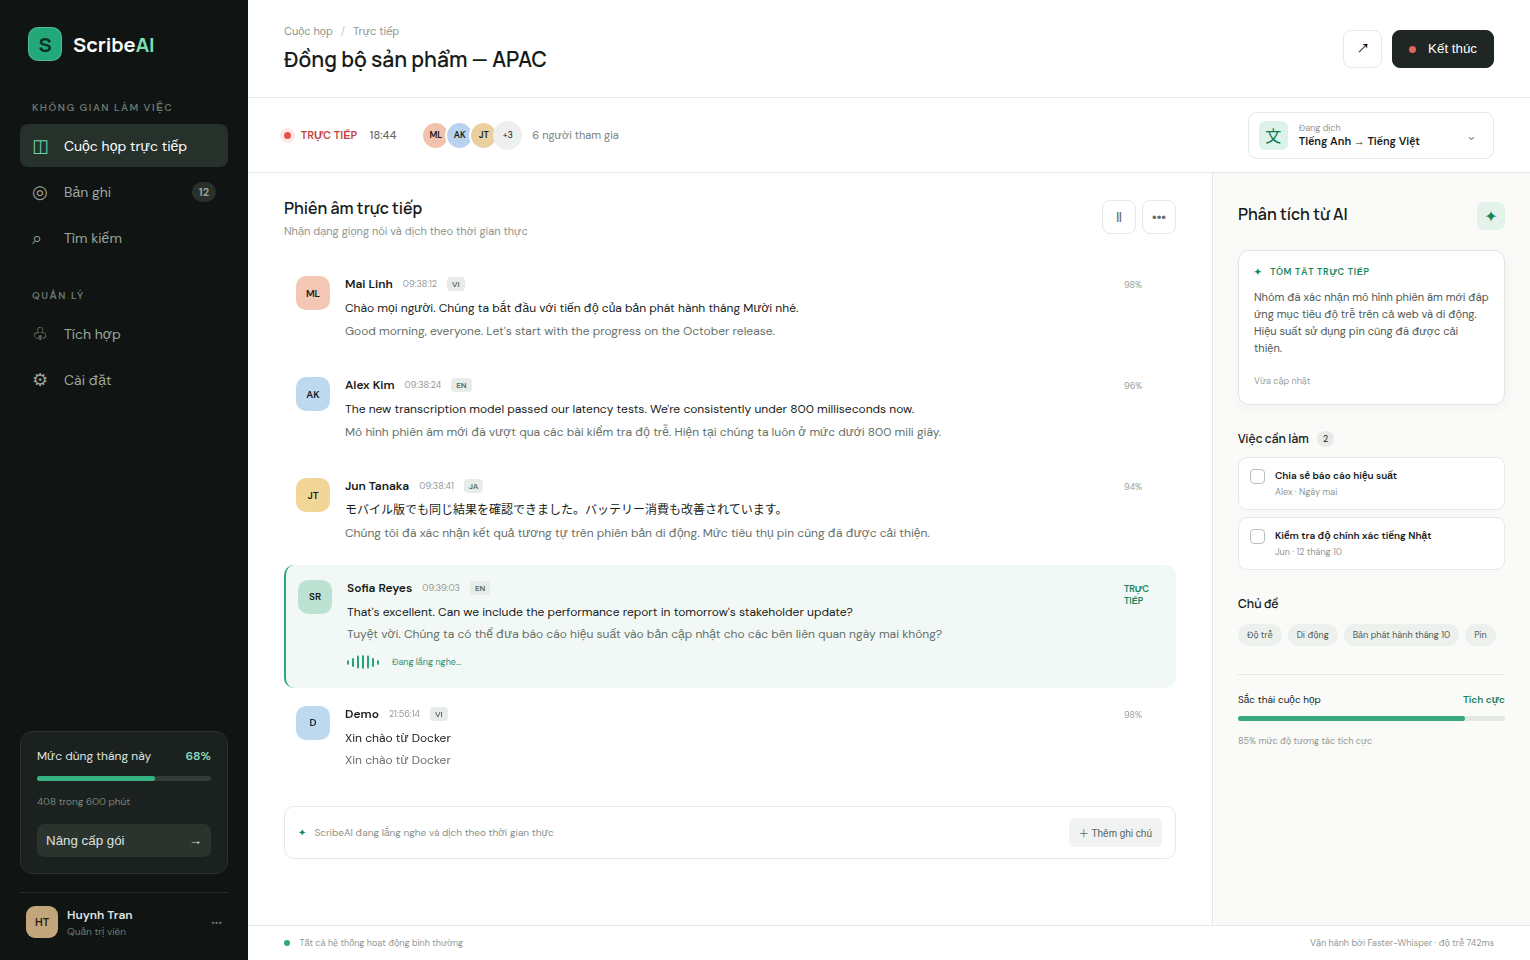
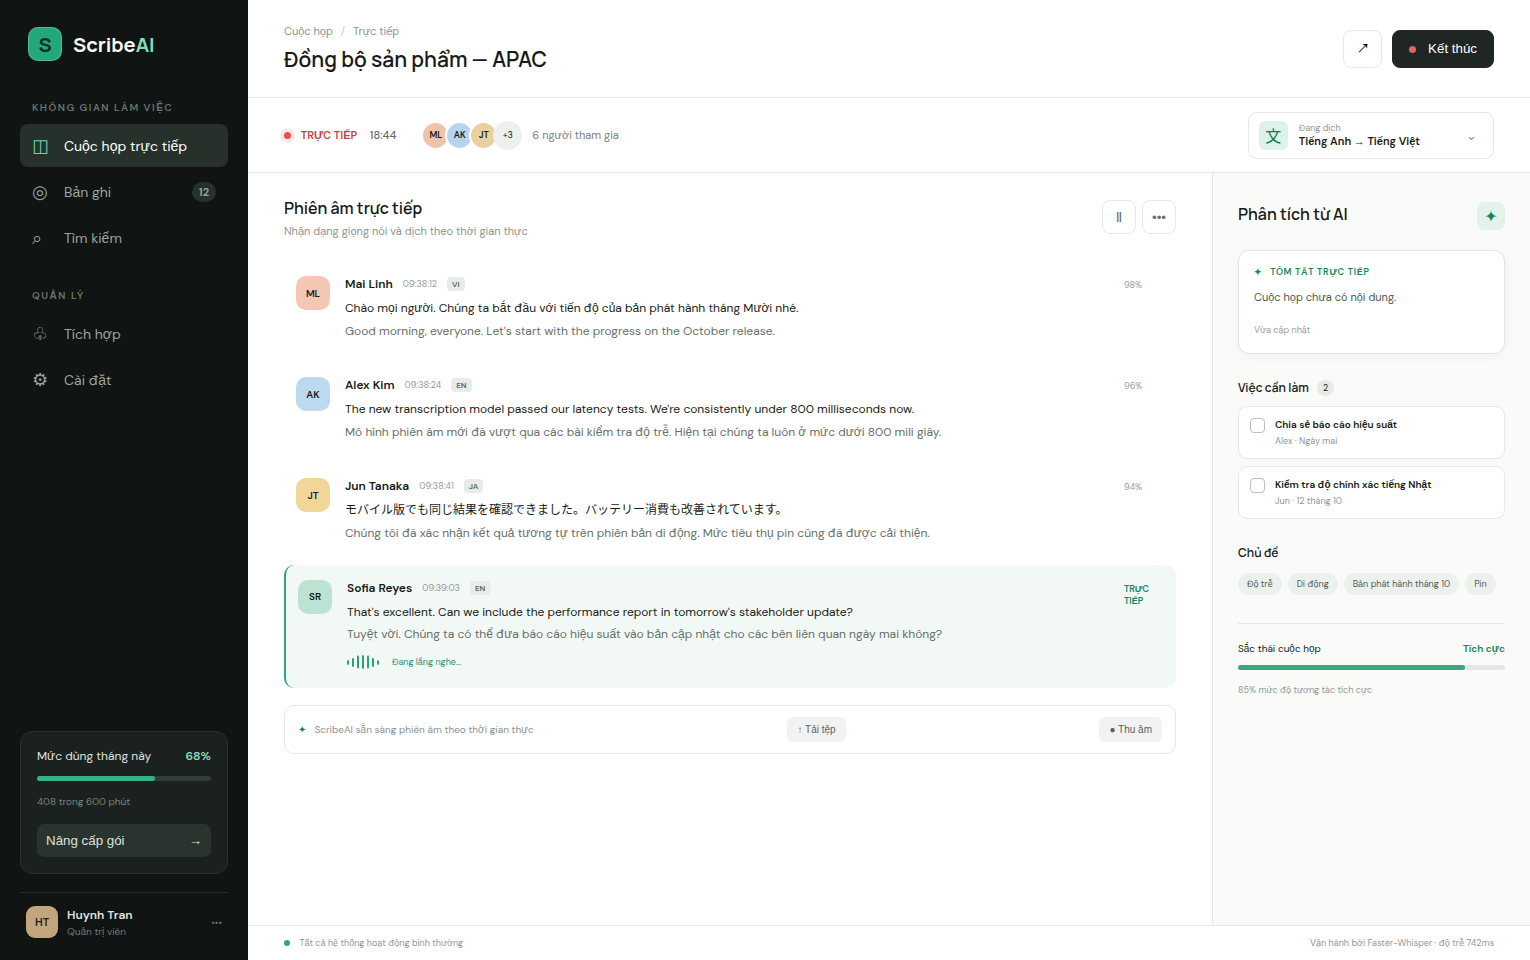
feat: make transcription pipeline one-command ready

diff --git a/web/assets/app.js b/web/assets/app.js
@@ -6,6 +6,8 @@ let seconds = 18 * 60 + 42;
 let running = true;
 let meetingId = null;
 let socket = null;
+let mediaRecorder = null;
+let mediaStream = null;
 
 function notify(message) {
   toast.textContent = message;
@@ -30,6 +32,28 @@ function addSegment(segment) {
     <span class="confidence">${Math.round(segment.confidence * 100)}%</span>`;
   timeline.appendChild(article);
   timeline.scrollTop = timeline.scrollHeight;
+  setTimeout(refreshInsights, 500);
+}
+
+async function uploadAudio(blob, filename = `audio-${Date.now()}.webm`) {
+  if (!meetingId) throw new Error('Chưa có cuộc họp đang chạy');
+  const form = new FormData();
+  form.append('speaker', 'Người dùng');
+  form.append('file', blob, filename);
+  const response = await fetch(`/api/meetings/${meetingId}/audio`, { method: 'POST', body: form });
+  if (!response.ok) throw new Error(await response.text());
+  return response.json();
+}
+
+async function refreshInsights() {
+  if (!meetingId) return;
+  try {
+    const response = await fetch(`/api/meetings/${meetingId}/insights`);
+    if (!response.ok) return;
+    const data = await response.json();
+    document.querySelector('#ai-summary').textContent = data.summary;
+    if (data.topics.length) document.querySelector('#ai-topics').innerHTML = data.topics.map(topic => `<span>${escapeHtml(topic)}</span>`).join('');
+  } catch (error) { console.error(error); }
 }
 
 async function initializeRealtime() {
@@ -54,6 +78,7 @@ async function initializeRealtime() {
       if (message.type === 'status' && message.data.status === 'ended') notify('Cuộc họp đã kết thúc');
     };
     socket.onclose = () => setTimeout(initializeRealtime, 3000);
+    await refreshInsights();
   } catch (error) {
     console.error(error);
     notify('Không thể kết nối máy chủ realtime');
@@ -85,6 +110,46 @@ document.querySelector('#end-meeting').addEventListener('click', async () => {
     document.querySelector('#end-meeting').disabled = true;
     notify('Đã kết thúc cuộc họp');
   }
+});
+
+document.querySelector('#upload-audio').addEventListener('click', () => document.querySelector('#audio-file').click());
+document.querySelector('#audio-file').addEventListener('change', async event => {
+  const file = event.target.files[0];
+  if (!file) return;
+  const button = document.querySelector('#upload-audio');
+  button.disabled = true;
+  try {
+    await uploadAudio(file, file.name);
+    notify('Đã xếp hàng tệp âm thanh để phiên âm');
+  } catch (error) { notify(`Lỗi tải tệp: ${error.message}`); }
+  finally { button.disabled = false; event.target.value = ''; }
+});
+
+document.querySelector('#record-audio').addEventListener('click', async event => {
+  const button = event.currentTarget;
+  if (mediaRecorder?.state === 'recording') {
+    mediaRecorder.stop();
+    mediaStream.getTracks().forEach(track => track.stop());
+    button.classList.remove('recording');
+    button.textContent = '● Thu âm';
+    document.querySelector('#record-status').textContent = 'Đang xử lý đoạn âm thanh cuối…';
+    return;
+  }
+  try {
+    mediaStream = await navigator.mediaDevices.getUserMedia({ audio: { echoCancellation: true, noiseSuppression: true } });
+    mediaRecorder = new MediaRecorder(mediaStream, { mimeType: 'audio/webm;codecs=opus' });
+    mediaRecorder.addEventListener('dataavailable', async ({ data }) => {
+      if (!data.size) return;
+      try { await uploadAudio(data); notify('Đã gửi một đoạn âm thanh để phiên âm'); }
+      catch (error) { notify(`Lỗi gửi âm thanh: ${error.message}`); }
+    });
+    mediaRecorder.addEventListener('stop', () => { document.querySelector('#record-status').textContent = 'ScribeAI sẵn sàng phiên âm theo thời gian thực'; });
+    mediaRecorder.start(10000);
+    button.classList.add('recording');
+    button.textContent = '■ Dừng thu';
+    document.querySelector('#record-status').textContent = 'Đang thu và gửi âm thanh mỗi 10 giây…';
+    notify('Đã bắt đầu thu âm');
+  } catch (error) { notify('Không thể truy cập micro. Hãy cấp quyền cho trình duyệt.'); }
 });
 
 document.querySelectorAll('.task').forEach(task => task.addEventListener('change', () => {

diff --git a/web/index.html b/web/index.html
@@ -62,17 +62,17 @@
               <span class="speaker-avatar green">SR</span><div class="utterance"><div class="speaker"><strong>Sofia Reyes</strong><time>09:39:03</time><em>EN</em></div><p>That's excellent. Can we include the performance report in tomorrow's stakeholder update?</p><p class="translated">Tuyệt vời. Chúng ta có thể đưa báo cáo hiệu suất vào bản cập nhật cho các bên liên quan ngày mai không?</p><div class="wave"><i></i><i></i><i></i><i></i><i></i><i></i><i></i><i></i><span>Đang lắng nghe…</span></div></div><span class="confidence live-c">TRỰC TIẾP</span>
             </article>
           </div>
-          <div class="composer"><span class="pulse">✦</span><span>ScribeAI đang lắng nghe và dịch theo thời gian thực</span><button title="Thêm ghi chú">＋ Thêm ghi chú</button></div>
+          <div class="composer"><span class="pulse">✦</span><span id="record-status">ScribeAI sẵn sàng phiên âm theo thời gian thực</span><input id="audio-file" type="file" accept="audio/*,video/webm" hidden><button id="upload-audio" title="Tải tệp âm thanh">↑ Tải tệp</button><button id="record-audio" title="Thu âm từ micro">● Thu âm</button></div>
         </div>
 
         <aside class="insights">
           <div class="insight-head"><h2>Phân tích từ AI</h2><span class="spark">✦</span></div>
-          <div class="summary"><div class="card-label"><span>✦</span> TÓM TẮT TRỰC TIẾP</div><p>Nhóm đã xác nhận mô hình phiên âm mới đáp ứng mục tiêu độ trễ trên cả web và di động. Hiệu suất sử dụng pin cũng đã được cải thiện.</p><small>Vừa cập nhật</small></div>
+          <div class="summary"><div class="card-label"><span>✦</span> TÓM TẮT TRỰC TIẾP</div><p id="ai-summary">Nhóm đã xác nhận mô hình phiên âm mới đáp ứng mục tiêu độ trễ trên cả web và di động. Hiệu suất sử dụng pin cũng đã được cải thiện.</p><small>Vừa cập nhật</small></div>
           <div class="section-head"><h3>Việc cần làm</h3><span>2</span></div>
           <label class="task"><input type="checkbox"><span class="check"></span><span><strong>Chia sẻ báo cáo hiệu suất</strong><small>Alex · Ngày mai</small></span></label>
           <label class="task"><input type="checkbox"><span class="check"></span><span><strong>Kiểm tra độ chính xác tiếng Nhật</strong><small>Jun · 12 tháng 10</small></span></label>
           <div class="section-head topics-head"><h3>Chủ đề</h3></div>
-          <div class="topics"><span>Độ trễ</span><span>Di động</span><span>Bản phát hành tháng 10</span><span>Pin</span></div>
+          <div class="topics" id="ai-topics"><span>Độ trễ</span><span>Di động</span><span>Bản phát hành tháng 10</span><span>Pin</span></div>
           <div class="sentiment"><div><span>Sắc thái cuộc họp</span><strong>Tích cực</strong></div><div class="sentiment-bar"><i></i></div><small>85% mức độ tương tác tích cực</small></div>
         </aside>
       </section>

diff --git a/bot-agent/src/index.ts b/bot-agent/src/index.ts
@@ -17,6 +17,21 @@ const config: AgentConfig = {
   headless: process.env.HEADLESS !== 'false',
 };
 
+async function resolveMeetingId(apiUrl: string): Promise<string> {
+  if (process.env.MEETING_ID) return process.env.MEETING_ID;
+  const meetingsResponse = await fetch(`${apiUrl}/api/meetings`);
+  if (!meetingsResponse.ok) throw new Error('Không đọc được danh sách cuộc họp');
+  const meetings = await meetingsResponse.json() as Array<{ id: string; status: string }>;
+  const active = meetings.find(meeting => meeting.status === 'live');
+  if (active) return active.id;
+  const created = await fetch(`${apiUrl}/api/meetings`, { method: 'POST', headers: { 'content-type': 'application/json' },
+    body: JSON.stringify({ title: 'Cuộc họp do ScribeAI tạo', source_language: 'auto', target_language: 'vi' }) });
+  if (!created.ok) throw new Error('Không tạo được cuộc họp');
+  const meeting = await created.json() as { id: string };
+  await fetch(`${apiUrl}/api/meetings/${meeting.id}/status/live`, { method: 'POST' });
+  return meeting.id;
+}
+
 async function joinGoogleMeet(page: Page): Promise<void> {
   await page.goto(config.meetingUrl, { waitUntil: 'domcontentloaded' });
   const name = page.getByPlaceholder(/your name/i);
@@ -40,12 +55,13 @@ async function run(): Promise<void> {
     if (config.provider === 'google-meet') await joinGoogleMeet(page);
     else throw new Error(`${config.provider} adapter is not enabled yet`);
     console.log(`[agent] joined ${config.provider} as ${config.displayName}`);
-    if (process.env.API_URL && process.env.MEETING_ID && process.env.AUDIO_SOURCE) {
-      recorder = new AudioRecorder({ apiUrl: process.env.API_URL, meetingId: process.env.MEETING_ID,
-        speaker: config.displayName, audioSource: process.env.AUDIO_SOURCE });
+    if (process.env.API_URL) {
+      const meetingId = await resolveMeetingId(process.env.API_URL);
+      recorder = new AudioRecorder({ apiUrl: process.env.API_URL, meetingId,
+        speaker: config.displayName, audioSource: process.env.AUDIO_SOURCE ?? 'default' });
       await recorder.start();
     } else {
-      console.log('[audio] bỏ qua thu âm; cần API_URL, MEETING_ID và AUDIO_SOURCE');
+      console.log('[audio] bỏ qua thu âm; cần cấu hình API_URL');
     }
     await page.waitForEvent('close', { timeout: 0 });
   } finally {

diff --git a/web/assets/realtime.css b/web/assets/realtime.css
@@ -6,4 +6,6 @@
 }
 .toast.show { opacity: 1; transform: none; }
 .segment.new { animation: appear .35s ease-out; }
+.composer button.recording { background: #b83934; color: white; }
+.composer button:disabled { opacity: .55; cursor: wait; }
 @keyframes appear { from { opacity: 0; transform: translateY(8px); } }

diff --git a/workers/asr_worker.py b/workers/asr_worker.py
@@ -21,30 +21,43 @@ def ensure_group(redis: Redis) -> None:
         if "BUSYGROUP" not in str(exc): raise
 
 
+def process_job(redis: Redis, model: WhisperModel, message_id: str, fields: dict) -> None:
+    try:
+        job = json.loads(fields["payload"])
+        segments, info = model.transcribe(job["audio_path"], vad_filter=True, beam_size=5)
+        for segment in segments:
+            text = segment.text.strip()
+            if not text: continue
+            payload = {"meeting_id": job["meeting_id"], "speaker": job["speaker"],
+                "original": text, "translation": "", "language": info.language,
+                "confidence": max(0.0, min(1.0, 1.0 - segment.no_speech_prob)),
+                "offset_ms": int(segment.start * 1000)}
+            response = httpx.post(f"{API_URL}/api/meetings/{job['meeting_id']}/segments", json=payload, timeout=60)
+            response.raise_for_status()
+        redis.xack("scribe:audio", GROUP, message_id)
+        print(f"[ASR] Đã xử lý job {message_id}", flush=True)
+    except Exception as exc:
+        print(f"[ASR] Lỗi job {message_id}: {exc}", flush=True)
+        redis.xadd("scribe:audio:failed", {"source_id": message_id, "error": str(exc), "payload": fields.get("payload", "")}, maxlen=1000)
+        redis.xack("scribe:audio", GROUP, message_id)
+        time.sleep(1)
+
+
 def main() -> None:
     redis = Redis.from_url(REDIS_URL, decode_responses=True)
     ensure_group(redis)
     model = WhisperModel(MODEL_SIZE, device=DEVICE, compute_type=COMPUTE_TYPE)
     print(f"[ASR] Sẵn sàng: model={MODEL_SIZE}, device={DEVICE}", flush=True)
+    # Nhận lại tác vụ bị bỏ dở nếu worker cũ bị restart giữa chừng.
+    _, abandoned, *_ = redis.xautoclaim("scribe:audio", GROUP, CONSUMER, min_idle_time=0, start_id="0-0", count=100)
+    for message_id, fields in abandoned:
+        process_job(redis, model, message_id, fields)
     while True:
         messages = redis.xreadgroup(GROUP, CONSUMER, {"scribe:audio": ">"}, count=1, block=5000)
         if not messages: continue
         for _, entries in messages:
             for message_id, fields in entries:
-                try:
-                    job = json.loads(fields["payload"])
-                    segments, info = model.transcribe(job["audio_path"], vad_filter=True, beam_size=5)
-                    for segment in segments:
-                        payload = {"meeting_id": job["meeting_id"], "speaker": job["speaker"],
-                            "original": segment.text.strip(), "translation": "", "language": info.language,
-                            "confidence": max(0.0, min(1.0, 1.0 - segment.no_speech_prob)),
-                            "offset_ms": int(segment.start * 1000)}
-                        response = httpx.post(f"{API_URL}/api/meetings/{job['meeting_id']}/segments", json=payload, timeout=60)
-                        response.raise_for_status()
-                    redis.xack("scribe:audio", GROUP, message_id)
-                except Exception as exc:
-                    print(f"[ASR] Lỗi job {message_id}: {exc}", flush=True)
-                    time.sleep(2)
+                process_job(redis, model, message_id, fields)
 
 
 if __name__ == "__main__": main()

diff --git a/README.md b/README.md
@@ -38,10 +38,10 @@ Hoặc khởi chạy API, Redis và PostgreSQL:
 docker compose up --build
 ```
 
-Khởi chạy thêm worker phiên âm Faster-Whisper:
+Lệnh trên tự khởi chạy cả worker phiên âm Faster-Whisper:
 
 ```bash
-docker compose --profile asr up --build
+docker compose up --build
 ```
 
 Lần đầu chạy, Faster-Whisper sẽ tải model. Mặc định dự án dùng `small` trên CPU. Máy có NVIDIA CUDA có thể đặt `WHISPER_DEVICE=cuda` và `WHISPER_COMPUTE_TYPE=float16`.
@@ -60,7 +60,16 @@ cp .env.example .env
 TRANSLATION_API_KEY=sk-...
 ```
 
-Mặc định dự án gọi OpenAI với model `gpt-4o-mini`. Có thể dùng nhà cung cấp tương thích OpenAI bằng cách đổi `TRANSLATION_API_URL` và `TRANSLATION_MODEL`. Khi chưa có key, pipeline phiên âm vẫn hoạt động và phần dịch sẽ trả lại nguyên văn thay vì gây lỗi hệ thống.
+Mặc định dự án gọi OpenAI với model `gpt-4o-mini`. Có thể dùng nhà cung cấp tương thích OpenAI bằng cách đổi `TRANSLATION_API_URL` và `TRANSLATION_MODEL`. Các cấu hình Redis, PostgreSQL và Faster-Whisper đã có giá trị mặc định; thông thường đây là dòng duy nhất bạn cần điền. Khi chưa có key, pipeline phiên âm vẫn hoạt động và phần dịch sẽ trả lại nguyên văn thay vì gây lỗi hệ thống.
+
+## Sử dụng giao diện
+
+Sau khi mở `http://localhost:8000`:
+
+1. Nhấn **Thu âm** và cho phép trình duyệt sử dụng micro. Âm thanh sẽ được gửi theo từng đoạn 10 giây.
+2. Hoặc nhấn **Tải tệp** để chọn tệp âm thanh/WebM có sẵn.
+3. Faster-Whisper tự phiên âm; API tự dịch, lưu PostgreSQL và đẩy kết quả lên màn hình qua WebSocket.
+4. Phần tóm tắt và chủ đề AI được cập nhật từ transcript đã lưu.
 
 ## Bot tham gia cuộc họp
 
